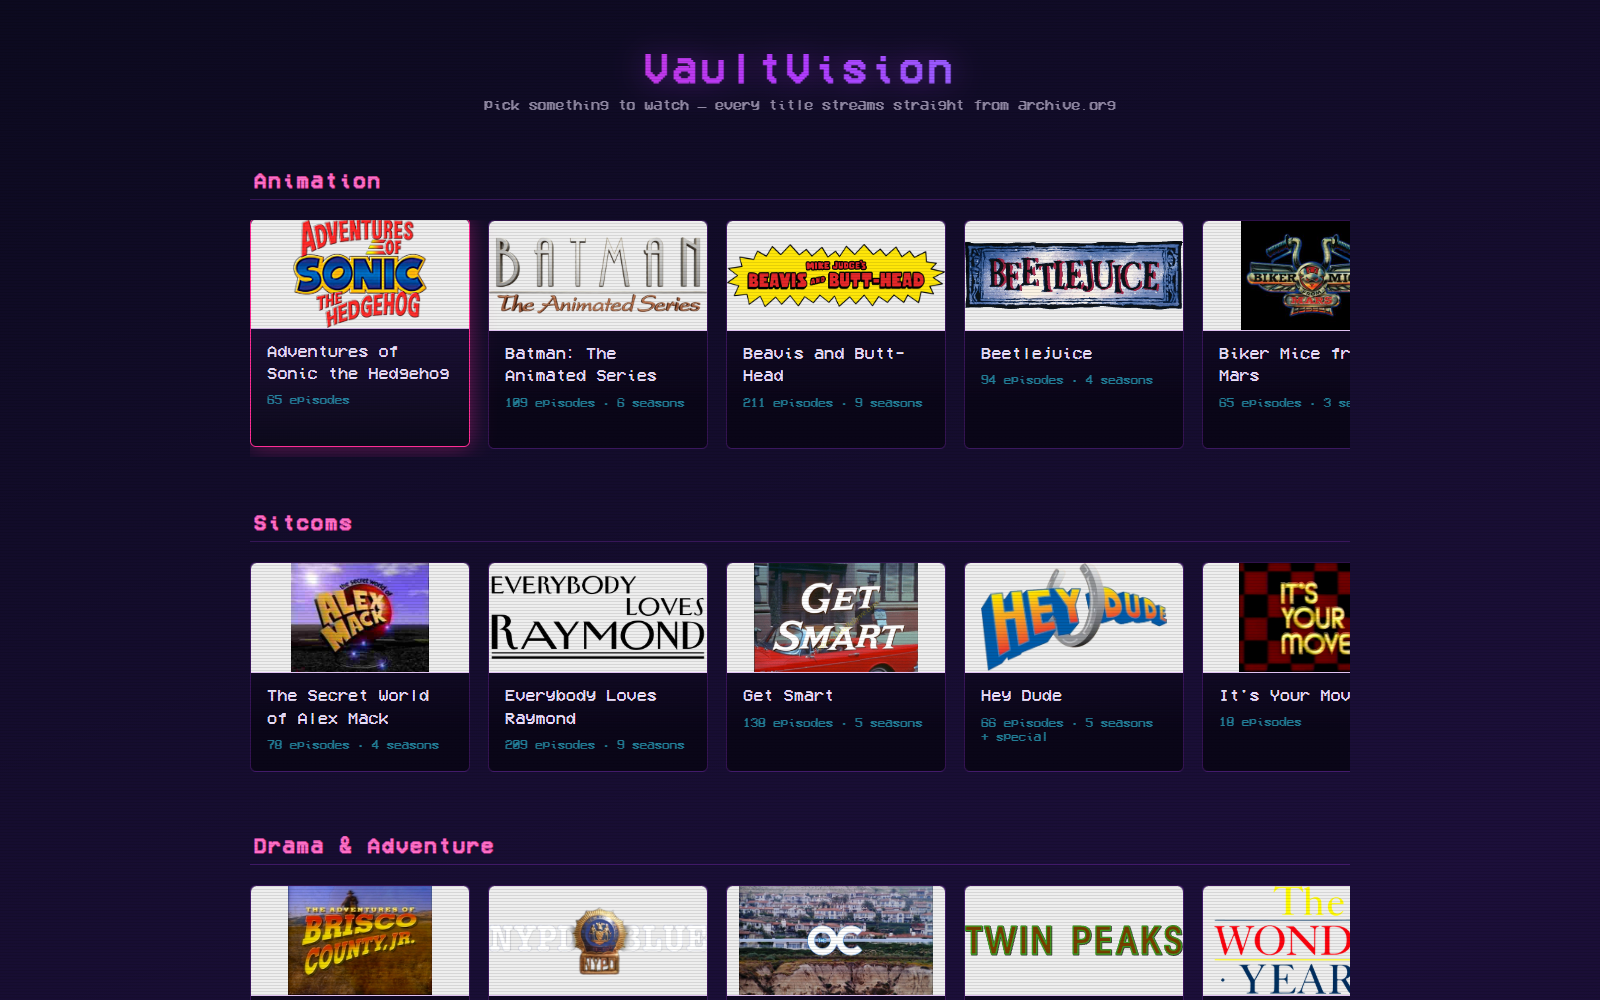
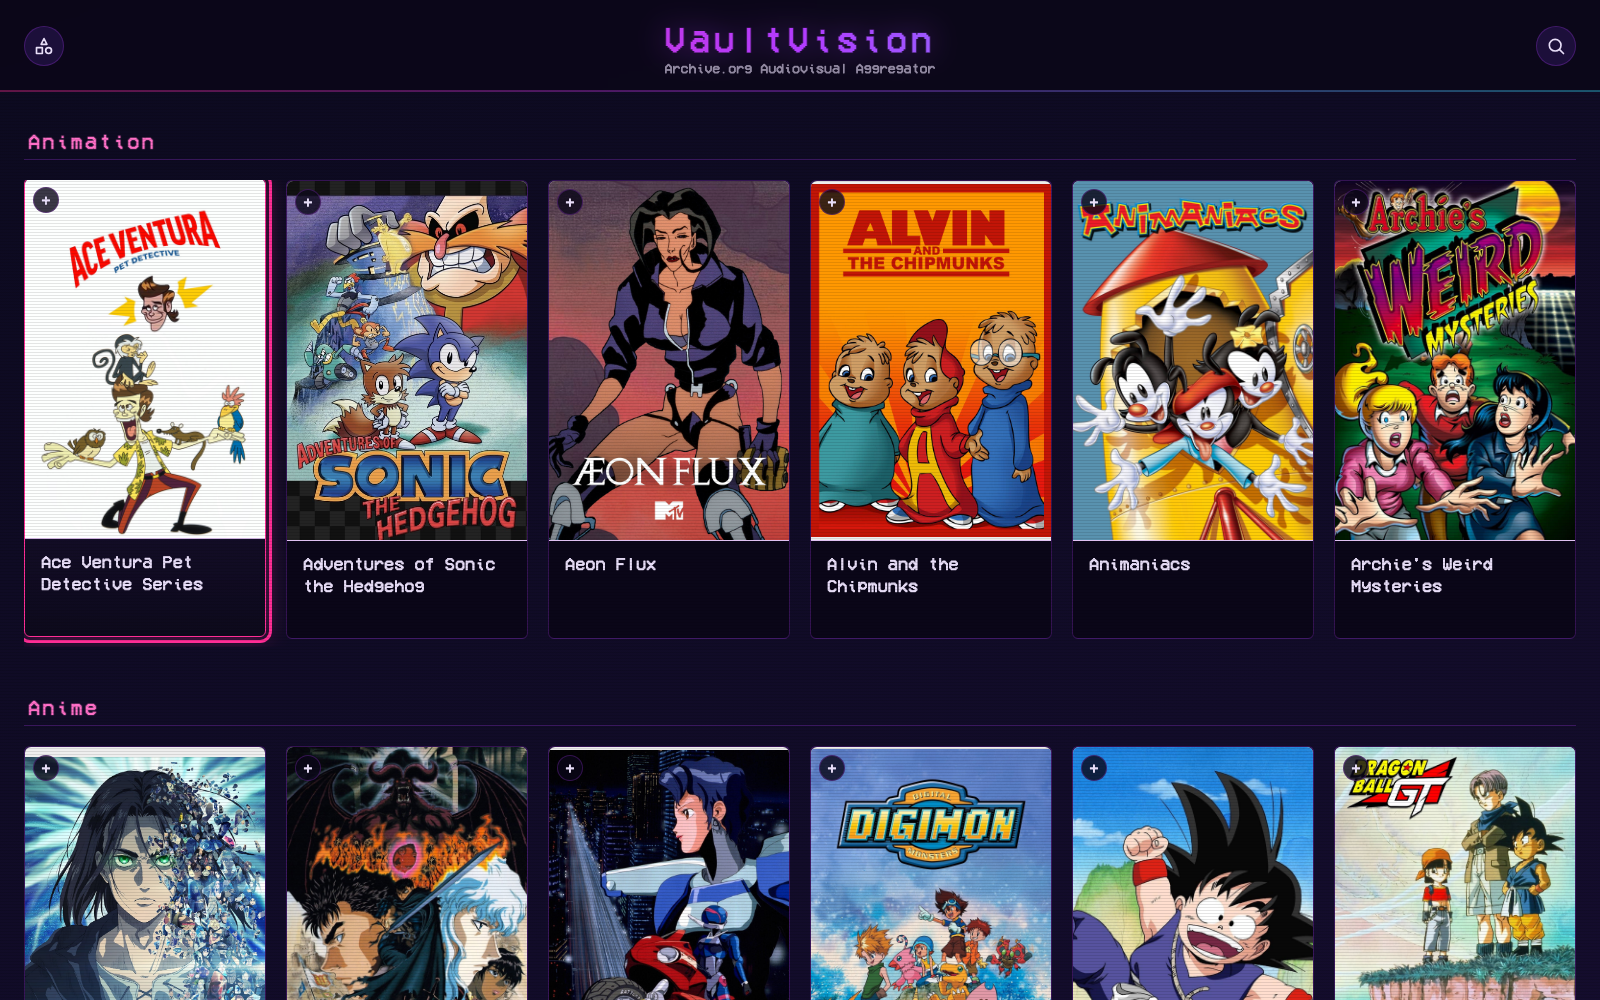
Rewrite README for GitHub and refresh all screenshots
Sync the feature list with the current app (Favorites, Kids Mode, search,
the pinned title bar, mobile-native player, ambient light toggle), fix the
"running it" section to lead with plain file:// support instead of implying
a server is required, and add a mobile section with its own screenshots.

Retake all player screenshots against different shows at varied mid-episode
timestamps instead of the same repeated frame.

diff --git a/README.md b/README.md
@@ -1,46 +1,197 @@
+<div align="center">
+
+<img src="favicon.svg" width="72" height="72" alt="VaultVision logo — two chunky V's shaded into a heart">
+
 # VaultVision
 
-**Live demo:** https://chairpants.github.io/VaultVision/
+**A retro channel guide for classic TV, streamed straight from the Internet Archive.**
 
-Browse a channel guide of classic shows and play them edge-to-edge straight from
-[archive.org](https://archive.org) — on-screen display, episode guide, captions,
-and a toggle into the three.js **3D Magnavox CRT** mode. Hosts no video itself.
+[![Live demo](https://img.shields.io/badge/live%20demo-chairpants.github.io%2FVaultVision-ff2d95?style=flat-square)](https://chairpants.github.io/VaultVision/)
+![No build step](https://img.shields.io/badge/build%20step-none-34e0ff?style=flat-square)
+![No backend](https://img.shields.io/badge/backend-none-b23bff?style=flat-square)
+![Vanilla JS](https://img.shields.io/badge/dependencies-vanilla%20JS-8fe8ff?style=flat-square)
+
+</div>
+
+Browse a genre-sorted guide of classic sitcoms, cartoons, anime, and drama —
+**313 shows across 11 genres and growing**, added in regular batches — and
+play any episode edge-to-edge straight from
+[archive.org](https://archive.org). On-screen guide, episode lists, captions,
+live search, favorites, a resume queue, a kids-safe mode, and a toggle into a
+fully modeled **3D Magnavox CRT** that renders the video onto a
+barrel-distorted tube with ambilight glow. VaultVision hosts no video itself;
+every title streams from the Archive.
+
+## Contents
+
+- [Screenshots](#screenshots)
+- [Features](#features)
+- [Running it](#running-it)
+- [Controls](#controls)
+- [Layout](#layout)
+- [Adding a show](#adding-a-show)
+- [Caveats](#caveats)
 
 ## Screenshots
 
-**Guide** — genre rows, poster cards, a neon synthwave palette:
+<table>
+<tr>
+<td width="50%">
 
-![Guide](art/screenshots/guide.png)
+**Guide** — pinned glass title bar, full-width responsive genre shelves, live search
+
+<img src="art/screenshots/guide.png" alt="Guide">
+
+</td>
+<td width="50%">
 
 **Flat 2D player** — edge-to-edge video with its own HUD (scrubber, transport,
-volume, settings/episodes/lights buttons), fading out when idle:
+volume, episodes/settings/captions/lights buttons), fading out when idle
 
-![Flat 2D player](art/screenshots/flat-mode.png)
+<img src="art/screenshots/flat-mode.png" alt="Flat 2D player">
 
-**Episode list** — season tabs, current-episode highlight, same neon palette as
-the guide, overlaid on the still-playing video:
+</td>
+</tr>
+<tr>
+<td width="50%">
 
-![Episode list](art/screenshots/episode-list.png)
+**Episode list** — season tabs and a current-episode highlight, overlaid on
+the still-playing video
 
-**Settings panel** — brightness/contrast/saturate/hue/sharpen live over the video:
+<img src="art/screenshots/episode-list.png" alt="Episode list">
 
-![Settings](art/screenshots/settings.png)
+</td>
+<td width="50%">
+
+**Settings panel** — FX/pixelated/captions/B&W toggles plus live
+brightness/contrast/saturate/hue/sharpen sliders
+
+<img src="art/screenshots/settings.png" alt="Settings">
+
+</td>
+</tr>
+</table>
 
 **3D CRT mode** — the video textured onto a Magnavox model: barrel-distorted
-glass, ambilight glow bleeding onto the bezel, a real labeled control strip
+glass, ambilight glow bleeding onto the bezel, a shell light that samples the
+video's own color, and a real labeled control strip
 (POWER/VOL/REW/FF/PAUSE/GUIDE/SETTINGS):
 
 ![3D CRT mode](art/screenshots/3d-mode.png)
 
+**Mobile** — a touch device gets a genuinely different, simpler experience by
+design: the responsive card grid on the left, and on the right the player
+handing off entirely to the browser's own native `<video controls>` instead of
+the custom HUD/3D canvas (see [Mobile](#mobile) below):
+
+<table>
+<tr>
+<td width="45%"><img src="art/screenshots/guide-mobile.png" alt="Mobile guide"></td>
+<td width="55%"><img src="art/screenshots/player-mobile.png" alt="Mobile player"></td>
+</tr>
+</table>
+
+## Features
+
+### Guide
+- 313 shows across 11 genre-grouped shelves (Animation, Anime, Sitcoms,
+  Classic Sitcoms, Drama & Adventure, Horror & Anthology, Sketch Comedy &
+  Late Night, Kids & Educational, Reality TV, TV Movies, Broadcast Blocks),
+  rendered at runtime from `shows.js`
+- New shows land regularly in batches — see the commit history for the
+  steady drip of additions
+- Pinned glass title bar with a hairline neon gradient edge
+- Full-width shelves with responsive card sizing — a whole number of cards
+  fill the row at any window size, no partial card clipped at the edge
+- **Favorites** — heart-toggle any show onto its own row, persisted locally
+- **Resume row** — your 5 most recently in-progress shows, linking straight
+  back into the player at the saved episode/time
+- **Live search** — filters already-rendered titles as you type, full
+  keyboard navigation, capped at 20 results
+- **Kids Mode** — a hand-reviewed allowlist (not a blocklist — anything not
+  explicitly reviewed stays hidden), confirm-to-enable / PIN-to-disable
+- Hover-and-hold row-scroll arrows with a Netflix-style accelerating ramp
+- Scroll position (page + each shelf) restored on your next visit
+- Full keyboard / D-pad navigation of the whole grid via `tv.js`
+
+### Show page
+- Locked header (art, title, episode count) over a scrolling episode list
+- Resume-aware Play button — "▶ Resume — S01E04" once you've started a show
+- Season tabs, watched-episode checkmarks, split-part episodes merged into
+  single rows
+
+### Player — flat mode
+- Edge-to-edge video, its own HUD (scrubber, transport, volume, episodes,
+  settings, captions, lights, 3D toggle, fullscreen), auto-fading after idle
+- **Settings panel** — FX/pixelated/captions/B&W toggles, plus live
+  brightness / contrast / saturate / hue-rotate / **sharpen** (an SVG
+  unsharp-mask filter) — all lerped in real time over the video
+- **Captions** resolved in priority order: bundled snapshot → live check of
+  the archive.org item's own files → a loose local `.vtt` fallback (SRT
+  auto-converted)
+- **Ambilight** — a second, blurred, muted `<video>` mirrors the main one,
+  full-bleed behind the letterboxed picture
+- **Lights toggle** — switches the ambient glow behind the picture on/off,
+  independent of the same toggle's meaning in 3D mode
+- Per-show watch progress and per-show settings persisted locally
+- Muted-autoplay fallback with a "tap for sound" hint when the browser blocks
+  audible autoplay
+
+### Player — 3D CRT mode
+- A modeled Magnavox CRT (three.js `GLTFLoader`, ~19 MB, only loaded when 3D
+  mode is used), orbit-controlled camera
+- The real `<video>` is glued into the scene as a `CSS3DObject` — no pixel
+  readback, so there's no CORS cost to rendering it in 3D
+- Barrel/glass distortion (an SVG displacement filter) applied to both the
+  video and the canvas-drawn on-screen menus, so both curve together
+- A shell light that samples the video's own color/brightness to tint the
+  room
+- **Lights toggle** — here it switches between a dark room lit only by
+  ambilight and a bright, fully lit room
+- A physical, labeled control strip (POWER/VOL±/REW/FF/PAUSE/GUIDE/SETTINGS)
+  decal-projected onto the model, with per-button hit zones
+- Classic green monochrome canvas-drawn OSD for the guide/settings/volume
+  popups, distinct from the flat mode's neon HUD
+- Screen-edge click zones (REW/FF on the sides, VOL on top/bottom, tap-center
+  to play/pause, double-click to escalate to fullscreen)
+
+### Mobile
+Touch devices don't get a shrunk-down version of the desktop player — they
+get a deliberately different one. `matchMedia('(pointer: coarse)')` detects
+any touch device and hands playback off entirely to the browser's own native
+`<video controls>`, disabling the WebGL 3D canvas and the whole custom HUD.
+Reasoning baked into the code: touch has no hover state and no reliable way
+to distinguish "revealing controls" from "pressing one," so native controls
+(which handle touch, fullscreen, buffering, and captions for free) beat a
+reimplementation. The guide and show pages get their own responsive
+breakpoint too — larger touch targets, viewport-relative card sizing, and the
+hover-only row arrows hidden.
+
+### Data
+- `shows/<id>/data.js` — per-show metadata + an episode list (archive.org
+  item id, title, filename), with modifiers for cropping, intro-skipping,
+  multi-part merging, segmented broadcast tapes, and more
+- Everything (`shows/`, `art/`) is bundled in the repo — no external database,
+  only the video itself streams from archive.org
+- A companion Roku channel's catalog data lives in `roku/` (catalog +
+  per-show JSON + downsized art), generated by a sibling project and kept in
+  sync as shows are added — it's exported data, not a buildable Roku app in
+  this repo
+
 ## Running it
 
-It's plain static HTML/CSS/JS — no build step. Serve the folder with anything:
+It's plain static HTML/CSS/JS — **no build step, no server required.** Just
+open `index.html` directly in a browser (double-click it, or drag it in).
+Show/episode data is loaded via `<script src>` rather than `fetch()`
+specifically so this works under a plain `file://` URL, which Chrome would
+otherwise block.
+
+If you'd rather serve it (or want the one feature that needs a server — see
+[Caveats](#caveats)), anything static will do:
 
 ```
 python3 -m http.server 8080
 ```
-
-then open `http://localhost:8080`.
 
 ## Controls
 
@@ -50,30 +201,50 @@ then open `http://localhost:8080`.
 | Enter | open the focused show / activate |
 | Esc | back / close |
 
-In the player: `g` guide · `s` settings · `d` 3D toggle · `c` captions, plus the
-usual play/pause, seek, and volume keys. (These double as D-pad/remote-style
-input, so the same code works unmodified on TV-shaped browsers.)
+In the player: `g` guide · `s` settings · `d` 3D toggle · `c` captions · `↑`/`↓`
+volume · `←`/`→` previous/next episode (hold to scrub), plus the usual
+play/pause and seek. These map to a TV remote's color buttons and D-pad, so
+the same code runs unmodified on TV-shaped browsers.
 
 ## Layout
 
 ```
-index.html            channel guide, sorted by genre + a Resume row (+ arrow-key focus via tv.js)
+index.html            channel guide, sorted by genre + Favorites/Resume rows (+ arrow-key focus via tv.js)
 show.html              per-show info screen: art/title, resume-or-play, episode list w/ season tabs
 tv.js                 guide keyboard/D-pad navigation (row/carousel aware)
+kids-safe.js          Kids Mode allowlist
+shows.js              show catalog (title, id, genre) loaded as window.SHOWS_CSV
 engine/
   viewer.html         flat/3D player — flat mode has its own HUD (scrubber, transport, volume,
                       settings + episode-list panels); 3D mode keeps the original canvas OSD
   magnavox.glb.js     the 3D CRT model (~20 MB, only fetched in 3D mode)
 shows/                per-show episode data + captions
 art/                  poster art
+roku/                 generated Roku channel catalog + art (data only — see ADDING_A_SHOW.md)
+ADDING_A_SHOW.md      step-by-step guide for adding a new show
+validate_show.py      cross-checks a show's wiring across shows.js/data.js/art/CREDITS
 ```
 
 `shows/` (per-show episode data) and `art/` (posters) are bundled in the repo, so
-it's self-contained — clone and serve, no other dependencies.
+it's self-contained — clone and open, no other dependencies.
+
+## Adding a show
+
+See **[ADDING_A_SHOW.md](ADDING_A_SHOW.md)** for the full contribution
+workflow — sourcing and vetting an archive.org item, writing its `data.js`,
+poster art, captions, and registering it in `shows.js`.
 
 ## Caveats
 
 - **CDN dependencies.** three.js loads from a CDN, and video comes from
-  archive.org.
+  archive.org — both need network access regardless of how you're serving
+  the app.
 - **Ambilight = a 2nd `<video>`.** Some devices have a single hardware video
   decoder; the blurred ambilight twin may not play everywhere.
+- **Mobile is native controls by design**, not a smaller version of the
+  desktop player — see [Mobile](#mobile).
+- **One thing that does need a server:** the loose local-caption fallback
+  (used only when a show has neither bundled nor archive.org-hosted
+  captions) is loaded as a `<track src>`, which Chrome blocks under
+  `file://`. Everything else — including playback itself — works with the
+  page opened directly.
